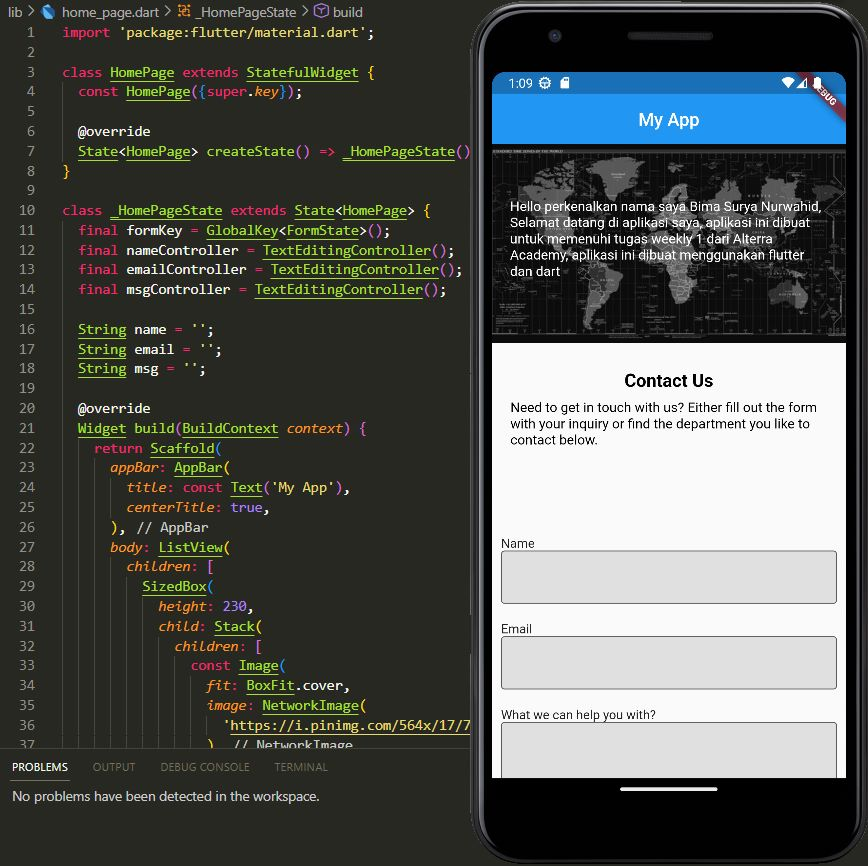
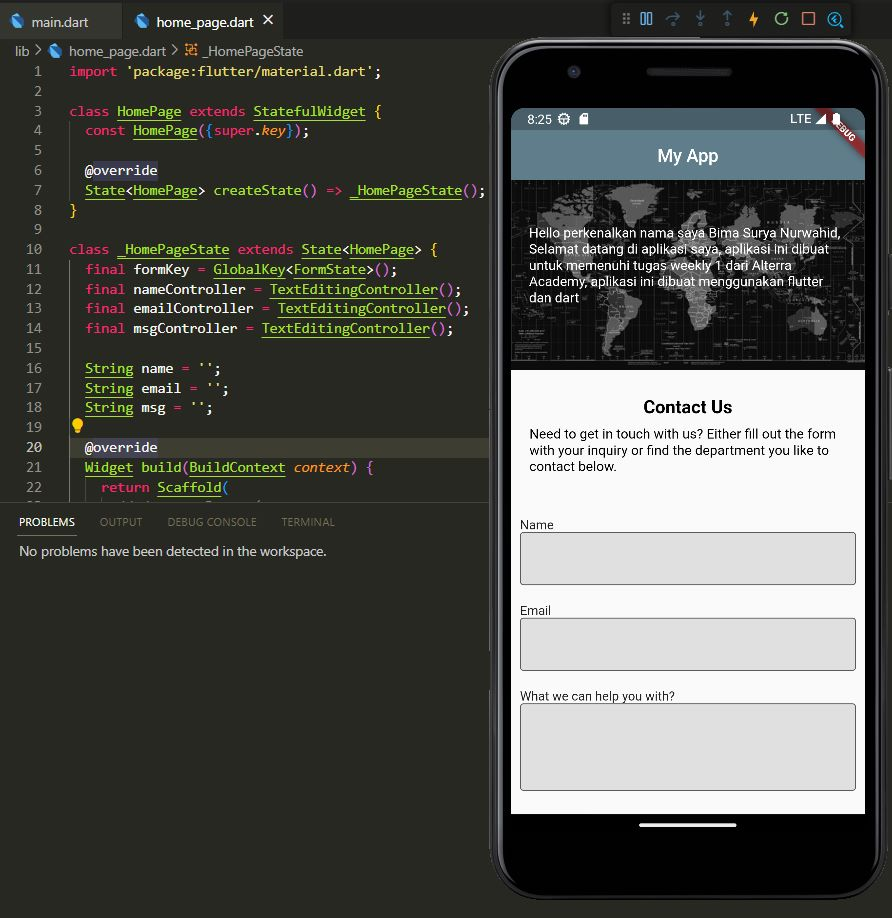
update

diff --git a/Weekly1/Project/weekly1/lib/home_page.dart b/Weekly1/Project/weekly1/lib/home_page.dart
@@ -20,6 +20,51 @@ class _HomePageState extends State<HomePage> {
   @override
   Widget build(BuildContext context) {
     return Scaffold(
+      // drawer: Drawer(
+      //   child: ListView(
+      //     children: [
+      //       const DrawerHeader(
+      //         decoration: BoxDecoration(
+      //           color: Colors.blueGrey,
+      //         ),
+      //         child: Text(
+      //           'Drawer Header',
+      //           style: TextStyle(
+      //             color: Colors.white,
+      //             fontSize: 24,
+      //           ),
+      //         ),
+      //       ),
+      //       ListTile(
+      //         title: const Text('Login'),
+      //         onTap: () {
+      //           // Update the state of the app
+      //           // ...
+      //           // Then close the drawer
+      //           Navigator.pop(context);
+      //         },
+      //       ),
+      //       ListTile(
+      //         title: const Text('Contact Us'),
+      //         onTap: () {
+      //           // Update the state of the app
+      //           // ...
+      //           // Then close the drawer
+      //           Navigator.pop(context);
+      //         },
+      //       ),
+      //       ListTile(
+      //         title: const Text('About Us'),
+      //         onTap: () {
+      //           // Update the state of the app
+      //           // ...
+      //           // Then close the drawer
+      //           Navigator.pop(context);
+      //         },
+      //       ),
+      //     ],
+      //   ),
+      // ),
       appBar: AppBar(
         title: const Text('My App'),
         centerTitle: true,
@@ -78,7 +123,8 @@ class _HomePageState extends State<HomePage> {
             ),
           ),
           Container(
-            height: 500,
+            height: 400,
+            // color: Colors.lightGreen[80],
             padding: const EdgeInsets.all(10),
             child: Column(
               mainAxisAlignment: MainAxisAlignment.center,
@@ -136,100 +182,69 @@ class _HomePageState extends State<HomePage> {
                       },
                     );
                   },
-                  child: const Text('Submit'),
+                  child: const Text(
+                    'Submit',
+                  ),
                 ),
               ],
             ),
           ),
+          // Container(
+          //   height: 400,
+          //   padding: const EdgeInsets.all(10),
+          //   // color: Colors.green,
+          //   child: Column(
+          //     children: [
+          //       const Text(
+          //         'About Us',
+          //         style: TextStyle(
+          //           fontSize: 20,
+          //           fontWeight: FontWeight.bold,
+          //         ),
+          //       ),
+          //       const SizedBox(height: 10),
+          //       const Text(
+          //         'My Services',
+          //         style: TextStyle(fontSize: 15, fontWeight: FontWeight.bold),
+          //       ),
+          //       const SizedBox(height: 10),
+          //       Row(
+          //         children: [
+          //           Card(
+          //             margin: const EdgeInsets.all(10),
+          //             child: Column(
+          //               children: [
+          //                 Image.network(
+          //                     'https://i.pinimg.com/564x/88/3f/bf/883fbfa148bd2d792c995b3d986c53de.jpg',
+          //                     height: 200,
+          //                     fit: BoxFit.cover),
+          //                 const SizedBox(height: 10),
+          //                 const Text('Bima Surya Nurwahid'),
+          //                 const Text('Flutter Developer'),
+          //               ],
+          //             ),
+          //           ),
+          //           Card(
+          //             margin: const EdgeInsets.all(10),
+          //             child: Column(
+          //               children: [
+          //                 Image.network(
+          //                     'https://i.pinimg.com/564x/88/3f/bf/883fbfa148bd2d792c995b3d986c53de.jpg',
+          //                     height: 200,
+          //                     fit: BoxFit.cover),
+          //                 const SizedBox(height: 10),
+          //                 const Text('Bima Surya Nurwahid'),
+          //                 const Text('Flutter Developer'),
+          //               ],
+          //             ),
+          //           ),
+          //         ],
+          //       ),
+          //     ],
+          //   ),
+          // ),
         ],
       ),
     );
   }
 }
-   // Container(
-                  //   height: 120,
-                  //   padding: EdgeInsets.all(10),
-                  //   margin: EdgeInsets.all(10),
-                  //   child: Column(
-                  //     children: [
-                  //       Text(
-                  //         'Contact Us',
-                  //         style: TextStyle(
-                  //             fontSize: 20,
-                  //             fontWeight: FontWeight.bold,
-                  //             color: Colors.black),
-                  //       ),
-                  //       SizedBox(
-                  //         height: 10,
-                  //       ),
-                  //       Text(
-                  //         'Need to get in touch with us? Either fill out the form with your inquiry or find the department you like to contact below.',
-                  //         style: TextStyle(color: Colors.black, fontSize: 15),
-                  //       ),
-                  //     ],
-                  //   ),
-                  // ),
-                  // Container(
-                  //   height: 500,
-                  //   padding: EdgeInsets.all(10),
-                  //   child: Column(
-                  //     mainAxisAlignment: MainAxisAlignment.center,
-                  //     crossAxisAlignment: CrossAxisAlignment.start,
-                  //     children: [
-                  //       const Text('Name'),
-                  //       TextField(
-                  //         controller: nameController,
-                  //         decoration: InputDecoration(
-                  //             border: const OutlineInputBorder(),
-                  //             fillColor: Colors.grey[300],
-                  //             filled: true),
-                  //       ),
-                  //       const SizedBox(height: 20),
-                  //       const Text('Email'),
-                  //       TextField(
-                  //         controller: emailController,
-                  //         decoration: InputDecoration(
-                  //             border: const OutlineInputBorder(),
-                  //             fillColor: Colors.grey[300],
-                  //             filled: true),
-                  //       ),
-                  //       const SizedBox(height: 20),
-                  //       const Text('What we can help you with?'),
-                  //       TextField(
-                  //         controller: msgController,
-                  //         minLines: 3,
-                  //         keyboardType: TextInputType.multiline,
-                  //         maxLines: null,
-                  //         decoration: InputDecoration(
-                  //             border: const OutlineInputBorder(),
-                  //             fillColor: Colors.grey[300],
-                  //             filled: true),
-                  //       ),
-                  //       const SizedBox(height: 20),
-                  //       ElevatedButton(
-                  //         onPressed: () {
-                  //           setState(
-                  //             () {
-                  //               name = nameController.text;
-                  //               email = emailController.text;
-                  //               msg = msgController.text;
-
-                  //               showDialog(
-                  //                 context: context,
-                  //                 builder: (context) => AlertDialog(
-                  //                   title: Column(
-                  //                     children: [
-                  //                       Text(name),
-                  //                       Text(email),
-                  //                     ],
-                  //                   ),
-                  //                 ),
-                  //               );
-                  //             },
-                  //           );
-                  //         },
-                  //         child: const Text('Submit'),
-                  //       ),
-                  //     ],
-                  //   ),
-                  // ),

diff --git a/Weekly1/Project/weekly1/lib/main.dart b/Weekly1/Project/weekly1/lib/main.dart
@@ -13,7 +13,7 @@ class MyApp extends StatelessWidget {
     return MaterialApp(
       title: 'Flutter Demo',
       theme: ThemeData(
-        primarySwatch: Colors.blue,
+        primarySwatch: Colors.blueGrey,
       ),
       home: const HomePage(),
     );
